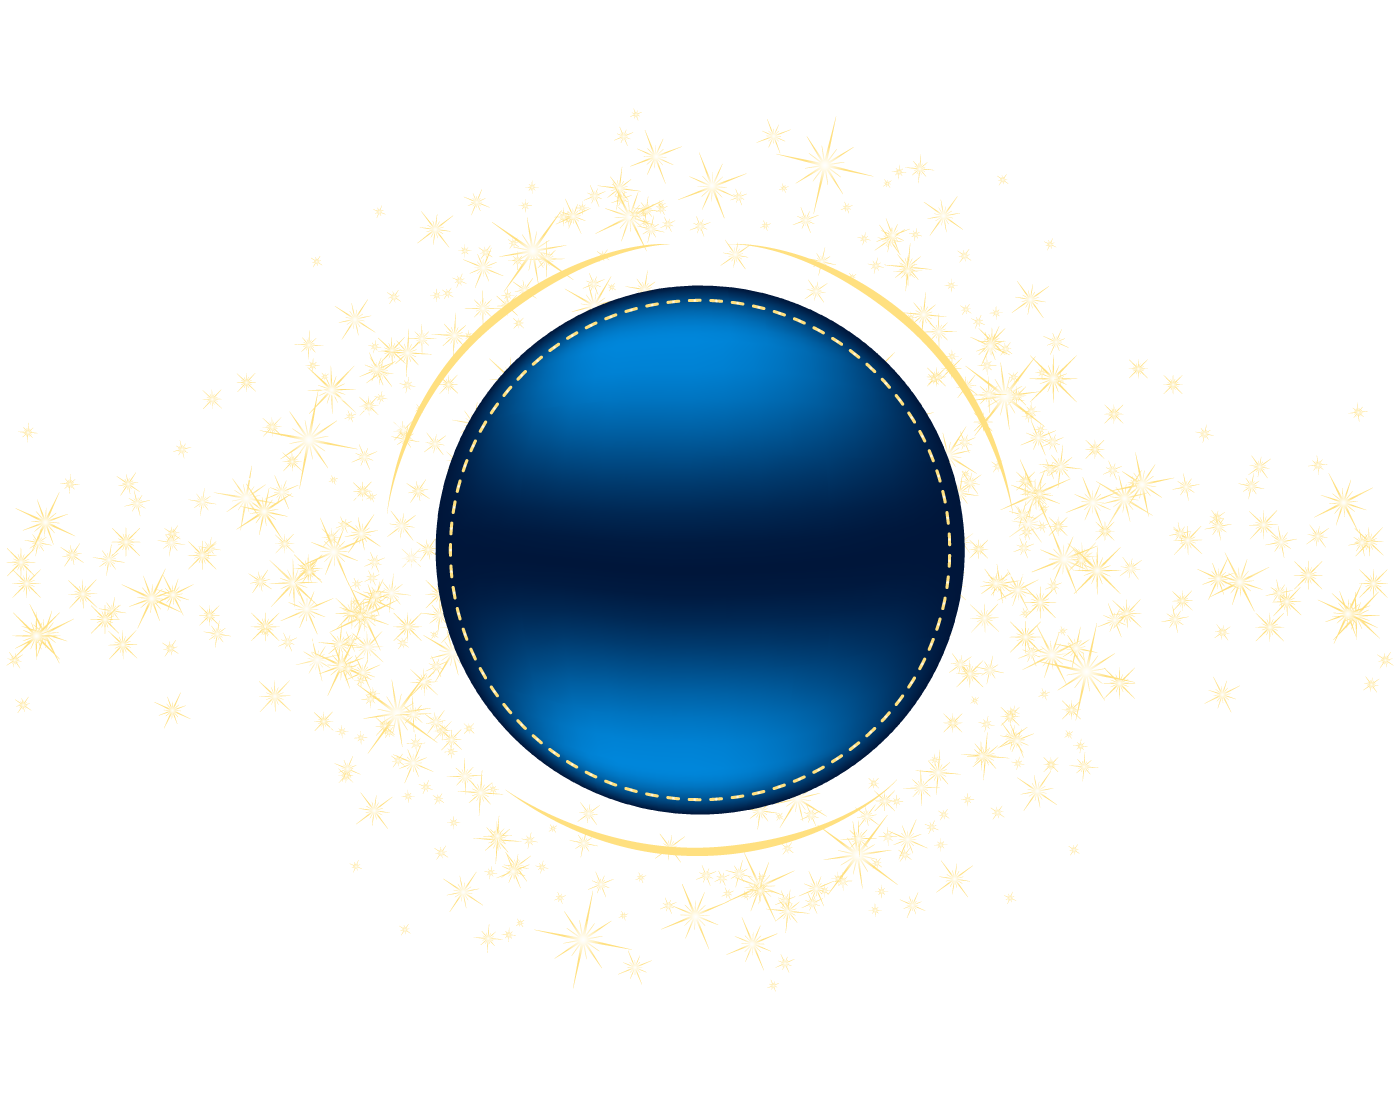
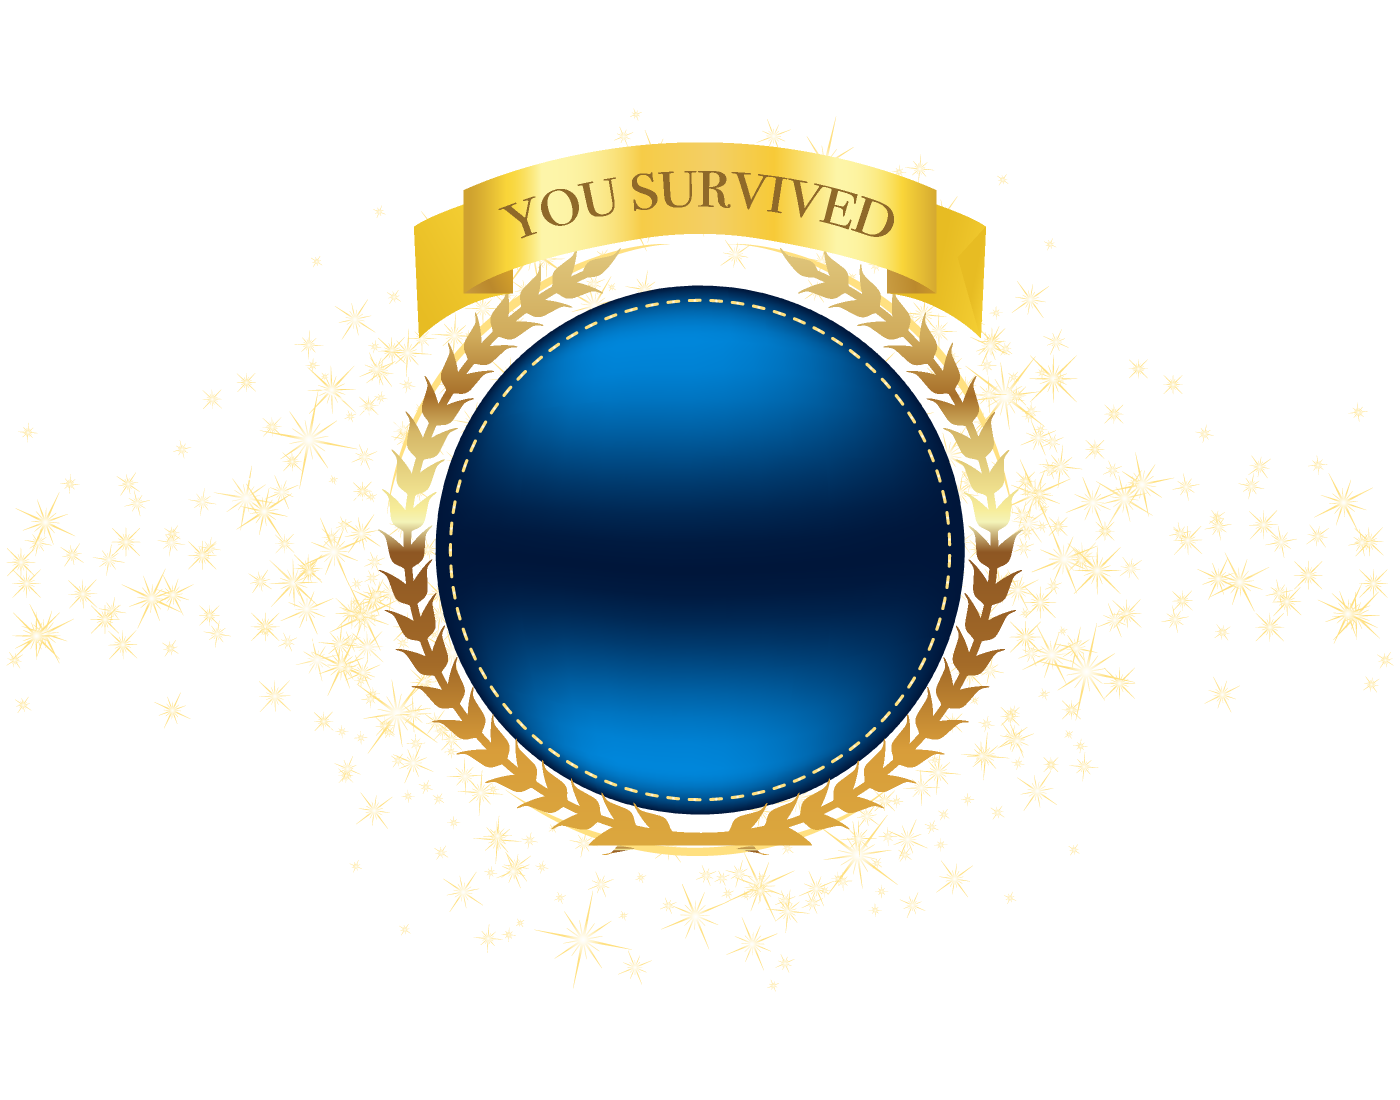
Updates winner view

Changed region(s): [[0.2764, 0.1236, 0.7371, 0.7727]]

diff --git a/public/index.html b/public/index.html
@@ -10,34 +10,10 @@
       content="Web site created using create-react-app"
     />
     <link rel="apple-touch-icon" href="%PUBLIC_URL%/logo192.png" />
-    <!--
-      manifest.json provides metadata used when your web app is installed on a
-      user's mobile device or desktop. See https://developers.google.com/web/fundamentals/web-app-manifest/
-    -->
     <link rel="manifest" href="%PUBLIC_URL%/manifest.json" />
-    <!--
-      Notice the use of %PUBLIC_URL% in the tags above.
-      It will be replaced with the URL of the `public` folder during the build.
-      Only files inside the `public` folder can be referenced from the HTML.
-
-      Unlike "/favicon.ico" or "favicon.ico", "%PUBLIC_URL%/favicon.ico" will
-      work correctly both with client-side routing and a non-root public URL.
-      Learn how to configure a non-root public URL by running `npm run build`.
-    -->
-    <title>React App</title>
+    <title>SwansonSweeper</title>
   </head>
   <body>
-    <noscript>You need to enable JavaScript to run this app.</noscript>
     <div id="root"></div>
-    <!--
-      This HTML file is a template.
-      If you open it directly in the browser, you will see an empty page.
-
-      You can add webfonts, meta tags, or analytics to this file.
-      The build step will place the bundled scripts into the <body> tag.
-
-      To begin the development, run `npm start` or `yarn start`.
-      To create a production bundle, use `npm run build` or `yarn build`.
-    -->
   </body>
 </html>

diff --git a/src/components/winMessage/WinMessage.sass b/src/components/winMessage/WinMessage.sass
@@ -13,14 +13,13 @@
         justify-content: flex-end
 
 .wmDanceGif
-    width: 50vh
-    height: 50vh
+    width: 48.5vh
+    height: 48.5vh
     border-radius: 25vh
     background: url('../../assets/dance.gif')
     background-size: cover
     background-position: center
     background-repeat: no-repeat
-    border: 3px solid gold
 
 .wmMain
     width: 100vw
@@ -56,11 +55,16 @@
     position: absolute
     bottom: 0
     width: 330px
-    height: 180px
+    height: 170px
     background: url(../../assets/sign-two.png)
     background-position: top
     background-size: cover
     background-repeat: no-repeat
+
+.wmWinner
+    width: 30vw
+    position: absolute
+    top: 100px
 
 
     

diff --git a/src/components/winMessage/WinMessage.tsx b/src/components/winMessage/WinMessage.tsx
@@ -5,6 +5,9 @@ import { useContext } from 'react';
 // contexts
 import { ModalContext, TimerContext } from '../../contexts'
 
+// images
+import WinnerImage from '../../assets/winner.png';
+
 // styles
 import './WinMessage.sass';
 
@@ -15,7 +18,6 @@ export const WinMessage: React.FC = () => {
   return (
     <div className="wmMain">
       <div className="wmDanceGif" />
-      {/* <h1 className="wmTitle">YOU GOT ALL THE GOLD IN {secondsElapsed} SECONDS!</h1> */}
       <div className="wmFormContainer">
         <div className={classNames("wmButtonContainer", "right")}>
           <div className="wmScore" onClick={() => {

diff --git a/src/App.tsx b/src/App.tsx
@@ -31,8 +31,8 @@ export const App: React.FC = () => {
   if(gameDifficulty === 'beginner'){
     width = 9;
     height = 9;
-    mines = 10;
-    // mines = 4;
+    // mines = 10;
+    mines = 1;
   } else if (gameDifficulty === 'intermediate'){
     width = 21;
     height = 12;
